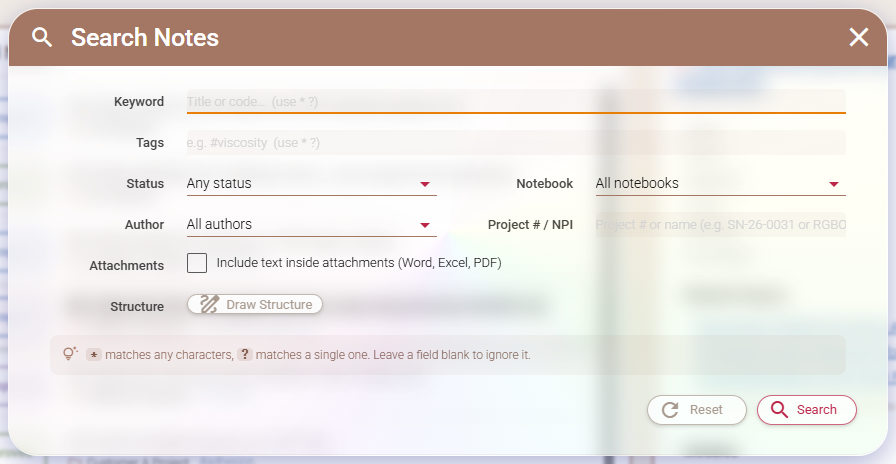
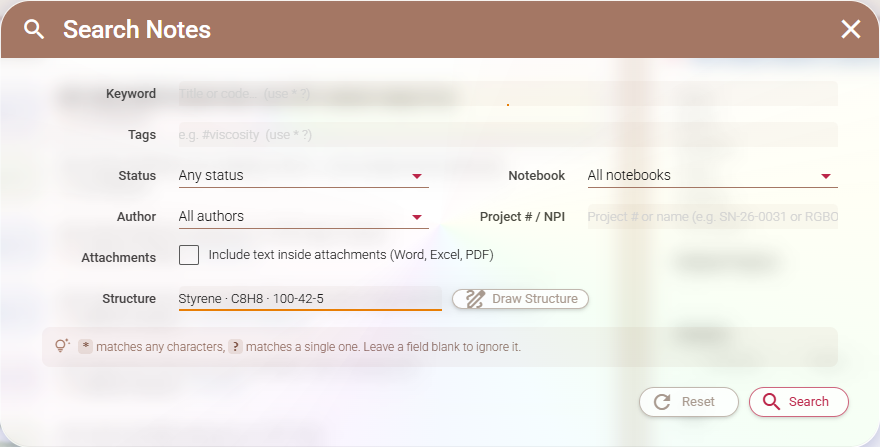
ELN 구현결과 문서: 첨부 미리보기 그림·설명(11번), 검색 창 구조식 입력칸 그림 갱신(한·영)

diff --git a/docs/ELN_1차구현결과.html b/docs/ELN_1차구현결과.html
@@ -509,12 +509,12 @@ table.dec td.cur{color:var(--ink2);font-size:12px}
   <div class="tt-req">"Search using Author name, Project Name, NPI Number etc." · Nice: "Search feature also searches contents of attachments (Microsoft Office documents and other XML/text-based formats)."</div>
   <div class="tt-cap">화면</div>
   <figure class="tt-fig">
-    <div class="shot"><img src="img/eln/09_search_modal.png" alt="Search Notes 창"><span class="mk" style="left:12.8%;top:48.4%">①</span><span class="mk" style="left:53.3%;top:48.4%">②</span><span class="mk" style="left:8.9%;top:57.2%">③</span><span class="mk" style="left:20.8%;top:65.5%">④</span></div>
+    <div class="shot"><img src="img/eln/09_search_modal.png" alt="Search Notes 창"><span class="mk" style="left:12.3%;top:48.2%">①</span><span class="mk" style="left:53.6%;top:48.2%">②</span><span class="mk" style="left:8.4%;top:57.4%">③</span><span class="mk" style="left:18.2%;top:66.7%">④</span></div>
     <figcaption><div class="lb">검색 조건</div><ol class="cl">
       <li><b>①</b> Author: 저자 선택</li>
       <li><b>②</b> Project # / NPI: 프로젝트 코드나 이름(노트에 연결된 프로젝트 모두 대상)</li>
       <li><b>③</b> Attachments: "Include text inside attachments"를 체크하면 첨부 본문까지 검색</li>
-      <li><b>④</b> Structure: <b>Draw Structure</b>를 누르면 ChemStudio가 열림. ChemStudio에는 이미 통합 검색(Formula / 이름 / CAS-No)이 있음. 노트는 ChemStudio 모듈에 연결된 구조로 찾을 계획</li>
+      <li><b>④</b> Structure: Formula / Name / CAS-No 자동완성으로 구조를 고르면 그 구조가 ChemStudio 모듈에 연결된 노트만 검색(ChemStudio 통합 검색과 같은 기준). <b>Draw Structure</b>를 누르면 ChemStudio가 열림</li>
     </ol></figcaption>
   </figure>
   <div class="tt-pair">
@@ -580,8 +580,20 @@ table.dec td.cur{color:var(--ink2);font-size:12px}
   <div class="tt-req">"Integration with Microsoft Office (Word, Excel, PowerPoint), PDF, Image Reader to Upload Files. AV: When we attach files – see the content/preview of the files" · Nice: "Can we upload a video?" / "Increase attachment size limit"</div>
   <ul class="tt-l">
     <li>계획 그대로: 파일서버 저장 파일(Word·Excel·PPT·PDF·이미지·동영상)을 노트 안에서 미리보기, 재업로드 시 새 버전</li>
-    <li><b>다음 단계에서 구현</b></li>
   </ul>
+  <figure class="tt-fig">
+    <div class="shot"><img src="img/eln/11_preview.png" alt="첨부 미리보기"><span class="mk" style="left:2.2%;top:12.5%">①</span><span class="mk" style="left:67.4%;top:13.6%">②</span><span class="mk" style="left:75.4%;top:31.3%">③</span><span class="mk" style="left:3.1%;top:92.1%">④</span></div>
+    <figcaption><div class="lb">첨부를 누르면 (Viscosity_Results.xlsx)</div><ol class="cl">
+      <li><b>①</b> 파일 이름 · 현재 버전(v2), 형식·크기·올린 사람·일시. "Preparing preview…" 뒤 읽기 전용으로 표시</li>
+      <li><b>②</b> Download / Upload New Version. 같은 이름 파일을 다시 올려도 다음 버전(v3)으로 쌓이고 Audit Trail에 "File version added"</li>
+      <li><b>③</b> Versions: v2(현재)와 v1(보존). v1을 누르면 이전 내용을 볼 수 있음</li>
+      <li><b>④</b> 수정은 내려받아 PC에서 하고 새 버전으로 올림(Office 임베드 편집은 웹에서 불가)</li>
+    </ol></figcaption>
+  </figure>
+  <div class="tt-cap">시연 순서</div>
+  <ol class="tt-steps"><li>Attachments 카드에서 파일 클릭(Excel·PDF·PPT·이미지·동영상)</li><li>Versions에서 v1 보기</li><li>Upload New Version › 버전 증가와 Audit Trail 기록 확인</li></ol>
+  <div class="tt-cap">계획 대비 변경</div>
+  <ul class="tt-l"><li>운영 미리보기는 Tech Library와 같은 Synap 문서 뷰어(PPT도 PDF 변환 없이 직접 표시). 프로토타입 화면은 목업. 잠긴 섹션·승인·번역 보기 중에는 미리보기·다운로드만 가능</li></ul>
 </template>
 <template id="t12">
   <div class="tt-h">12. SharePoint 작업 문서 <span>검토 중</span></div>

diff --git a/docs/ELN_1차구현결과_EN.html b/docs/ELN_1차구현결과_EN.html
@@ -509,12 +509,12 @@ table.dec td.cur{color:var(--ink2);font-size:12px}
   <div class="tt-req">"Search using Author name, Project Name, NPI Number etc." · Nice: "Search feature also searches contents of attachments (Microsoft Office documents and other XML/text-based formats)."</div>
   <div class="tt-cap">Screens</div>
   <figure class="tt-fig">
-    <div class="shot"><img src="img/eln/09_search_modal.png" alt="Search Notes window"><span class="mk" style="left:12.8%;top:48.4%">①</span><span class="mk" style="left:53.3%;top:48.4%">②</span><span class="mk" style="left:8.9%;top:57.2%">③</span><span class="mk" style="left:20.8%;top:65.5%">④</span></div>
+    <div class="shot"><img src="img/eln/09_search_modal.png" alt="Search Notes window"><span class="mk" style="left:12.3%;top:48.2%">①</span><span class="mk" style="left:53.6%;top:48.2%">②</span><span class="mk" style="left:8.4%;top:57.4%">③</span><span class="mk" style="left:18.2%;top:66.7%">④</span></div>
     <figcaption><div class="lb">Search criteria</div><ol class="cl">
       <li><b>①</b> Author: pick an author</li>
       <li><b>②</b> Project # / NPI: project code or name (all projects linked to the note are searched)</li>
       <li><b>③</b> Attachments: tick "Include text inside attachments" to search attachment text as well</li>
-      <li><b>④</b> Structure: <b>Draw Structure</b> opens ChemStudio. ChemStudio already has an integrated search (Formula / name / CAS-No). Notes will be found through the structures linked in their ChemStudio module</li>
+      <li><b>④</b> Structure: pick a structure with the Formula / Name / CAS-No autocomplete and only notes whose ChemStudio module links that structure are found (same keys as the ChemStudio integrated search). <b>Draw Structure</b> opens ChemStudio</li>
     </ol></figcaption>
   </figure>
   <div class="tt-pair">
@@ -580,8 +580,20 @@ table.dec td.cur{color:var(--ink2);font-size:12px}
   <div class="tt-req">"Integration with Microsoft Office (Word, Excel, PowerPoint), PDF, Image Reader to Upload Files. AV: When we attach files – see the content/preview of the files" · Nice: "Can we upload a video?" / "Increase attachment size limit"</div>
   <ul class="tt-l">
     <li>As planned: files stored on the file server (Word · Excel · PPT · PDF · images · video) are previewed inside the note; re-uploading creates a new version</li>
-    <li><b>To be built in the next step</b></li>
   </ul>
+  <figure class="tt-fig">
+    <div class="shot"><img src="img/eln/11_preview.png" alt="Attachment preview"><span class="mk" style="left:2.2%;top:12.5%">①</span><span class="mk" style="left:67.4%;top:13.6%">②</span><span class="mk" style="left:75.4%;top:31.3%">③</span><span class="mk" style="left:3.1%;top:92.1%">④</span></div>
+    <figcaption><div class="lb">Clicking an attachment (Viscosity_Results.xlsx)</div><ol class="cl">
+      <li><b>①</b> File name · current version (v2), type · size · uploader · time. Shown read-only after "Preparing preview…"</li>
+      <li><b>②</b> Download / Upload New Version. Uploading a file with the same name also stacks the next version (v3); Audit Trail records "File version added"</li>
+      <li><b>③</b> Versions: v2 (current) and v1 (kept). Click v1 to see the earlier content</li>
+      <li><b>④</b> To edit, download, edit on the PC and upload a new version (Office embedded editing is not possible on the web)</li>
+    </ol></figcaption>
+  </figure>
+  <div class="tt-cap">Demo steps</div>
+  <ol class="tt-steps"><li>Click a file in the Attachments card (Excel · PDF · PPT · image · video)</li><li>View v1 under Versions</li><li>Upload New Version › check the version increase and the Audit Trail record</li></ol>
+  <div class="tt-cap">Changes from the plan</div>
+  <ul class="tt-l"><li>Production preview uses the Synap document viewer as in Tech Library (PPT shown directly, no PDF conversion). The prototype screen is a mock. In locked sections, approved notes and translation view only preview and download are available</li></ul>
 </template>
 <template id="t12">
   <div class="tt-h">12. SharePoint working documents <span>Under review</span></div>
